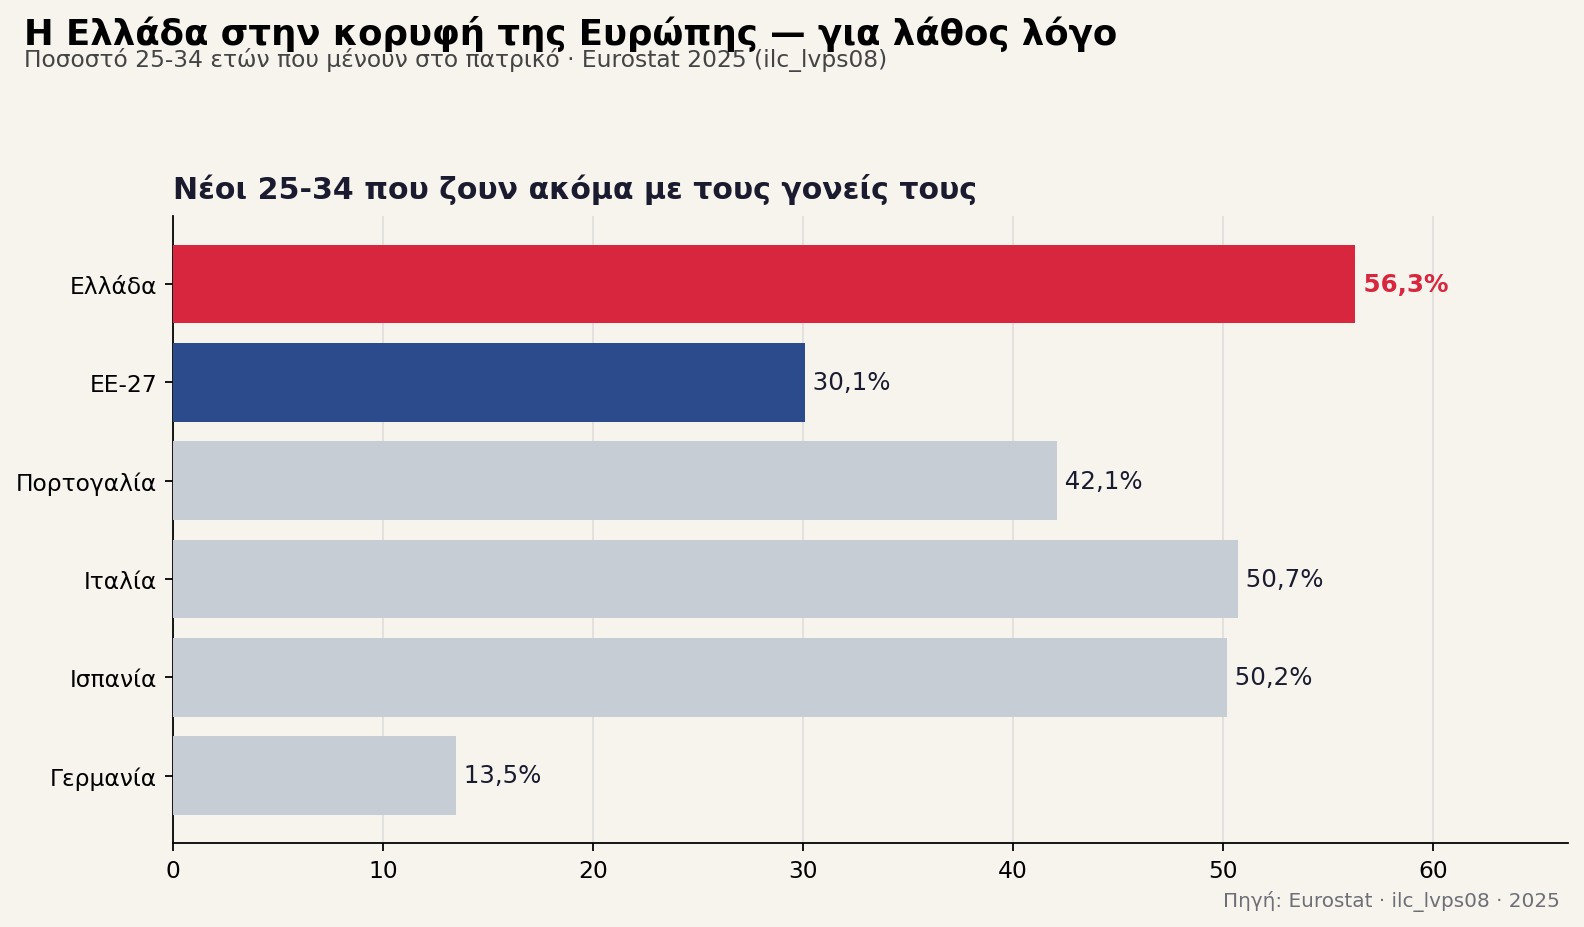
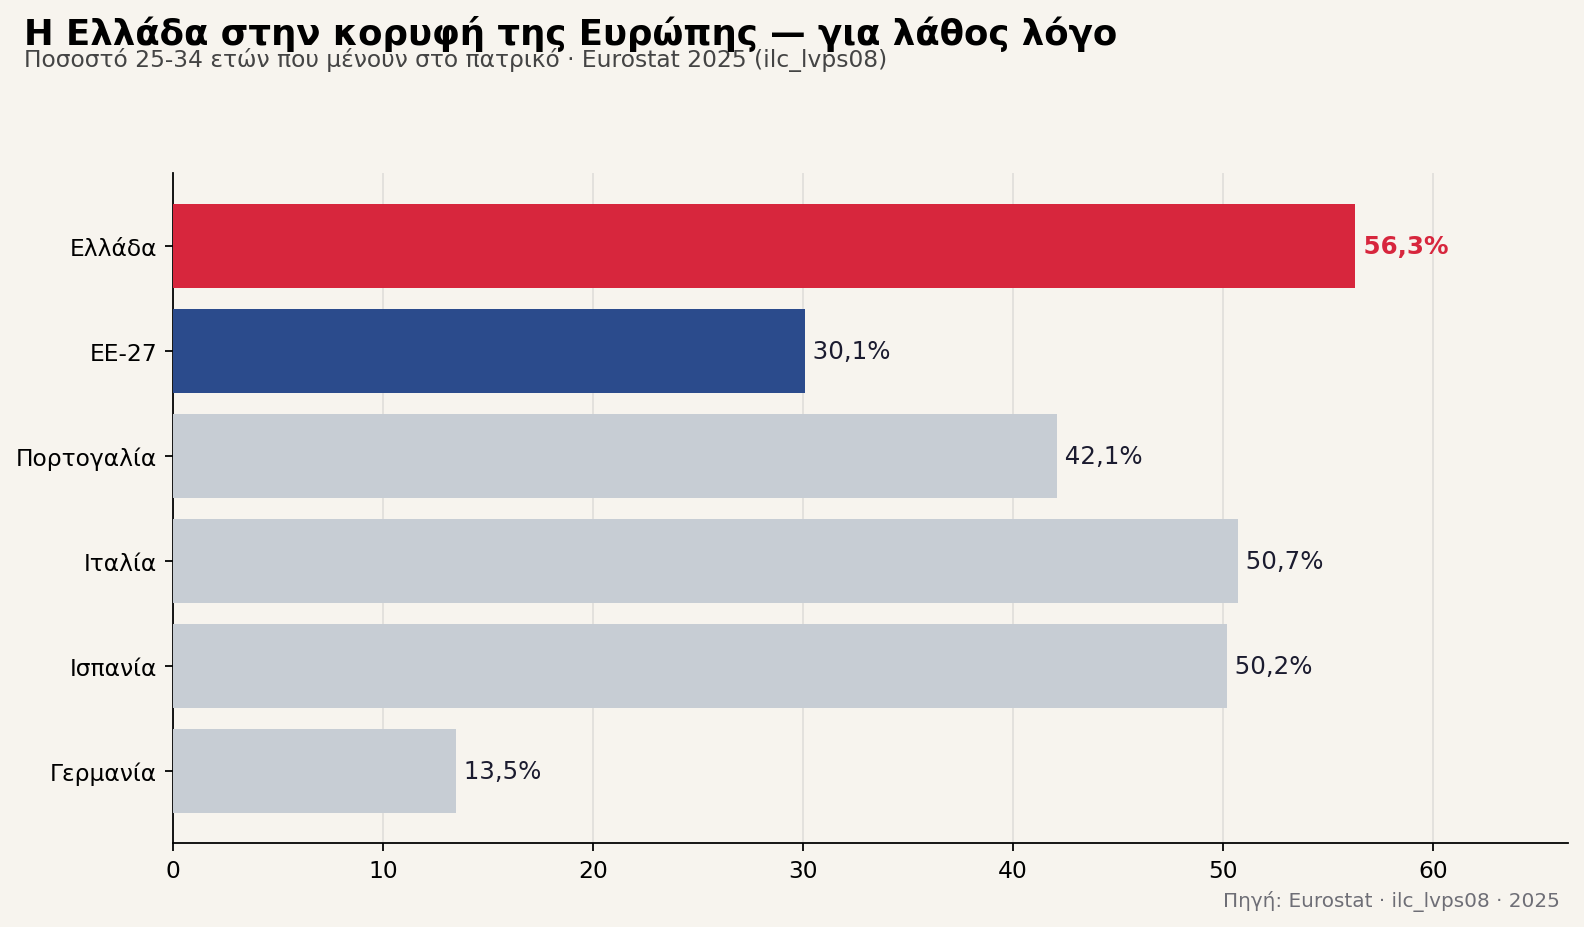
Clean parents chart: drop redundant axes title (suptitle only)

diff --git a/eurostat/scripts/charts.py b/eurostat/scripts/charts.py
@@ -37,7 +37,7 @@ def bars(ax, label, key, fmt, title, note=""):
 # --- Chart 1: living with parents (the headline) ---
 fig, ax = plt.subplots(figsize=(10, 5.8), dpi=160)
 bars(ax, "lwp", "Νέοι 25-34 που ζουν με γονείς (%)", lambda x: f"{x:.1f}%".replace(".", ","),
-     "Νέοι 25-34 που ζουν ακόμα με τους γονείς τους")
+     "")  # τίτλος μόνο μέσω suptitle — αποφυγή διπλού τίτλου
 fig.suptitle("Η Ελλάδα στην κορυφή της Ευρώπης — για λάθος λόγο", fontsize=16, fontweight="bold", x=0.02, ha="left")
 fig.text(0.02, 0.925, "Ποσοστό 25-34 ετών που μένουν στο πατρικό · Eurostat 2025 (ilc_lvps08)", fontsize=10.5, color="#444")
 fig.text(0.98, 0.02, "Πηγή: Eurostat · ilc_lvps08 · 2025", ha="right", fontsize=9, color=MUTED)
